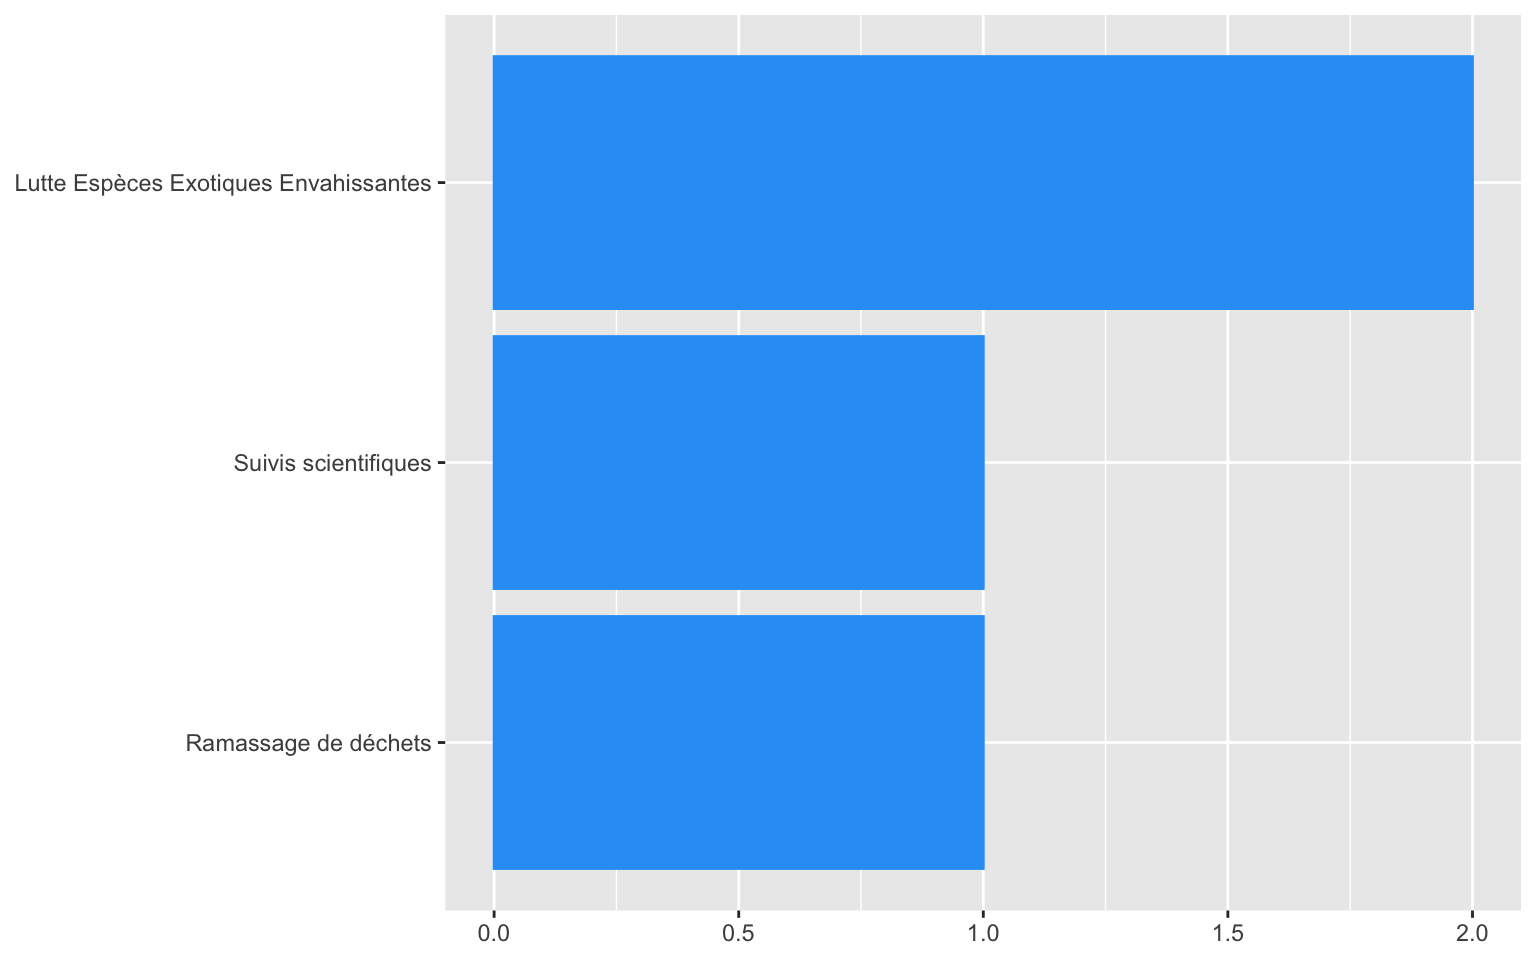
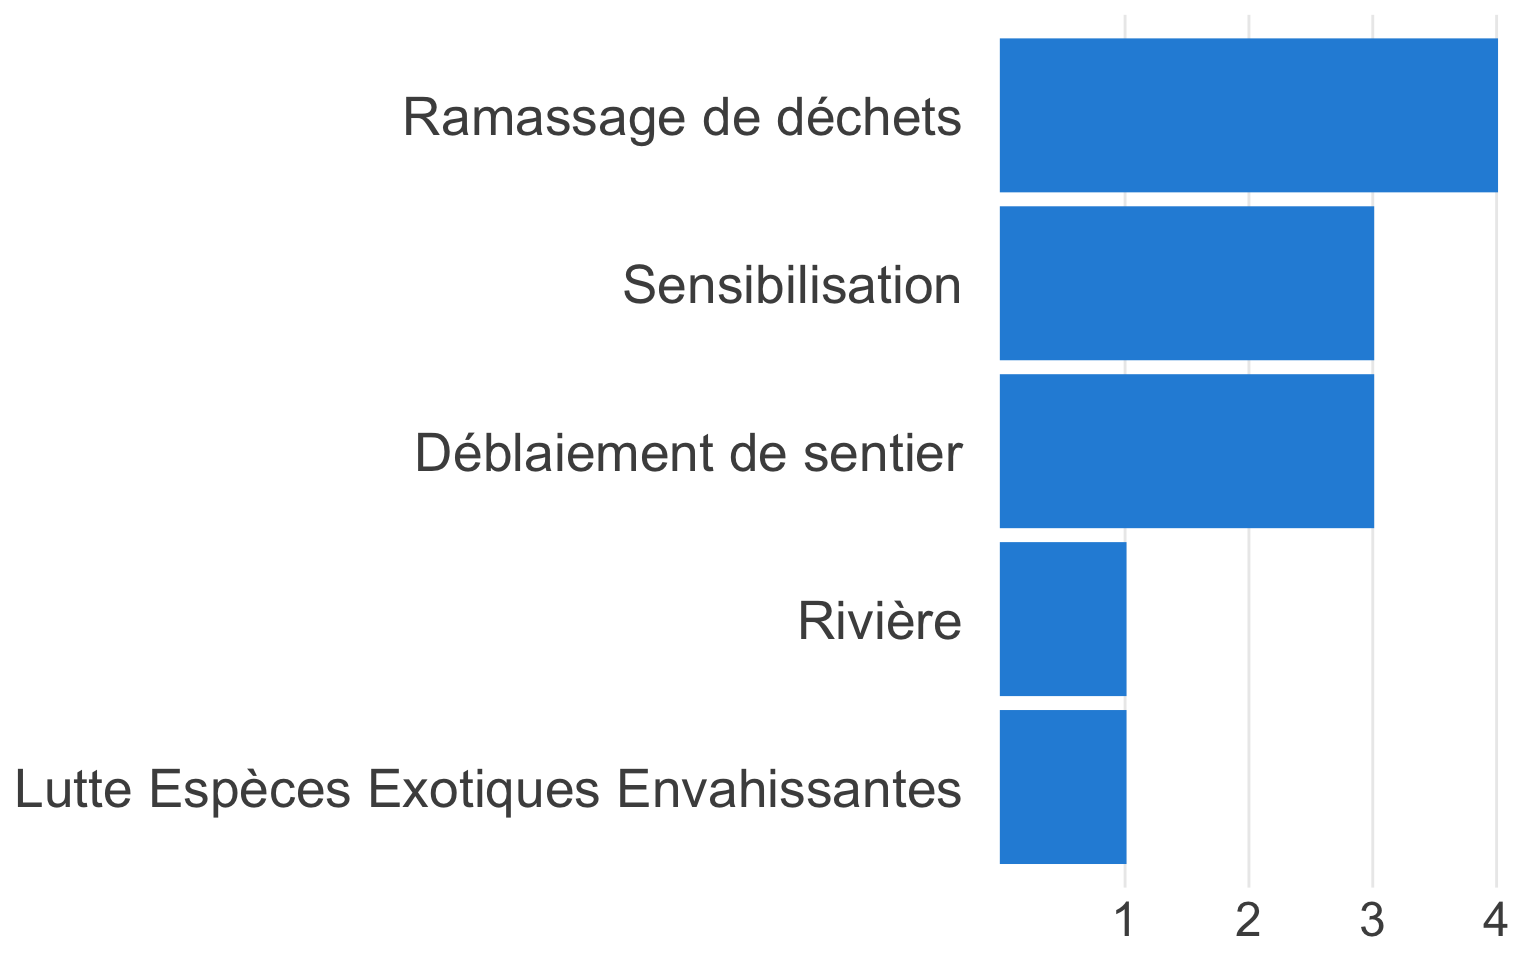
publish real actions

diff --git a/docs/index.html b/docs/index.html
@@ -100,8 +100,8 @@ grid-auto-rows: minmax(0, 1fr);">
 <div class="card cell html-fill-item html-fill-container bslib-card" data-bslib-card-init="" data-require-bs-caller="card()" data-full-screen="false">
 <div class="card-body html-fill-item html-fill-container" style="padding: 0px;">
 <div class="cell-output-display html-fill-item html-fill-container">
-<div class="leaflet html-widget html-fill-item html-fill-container" id="htmlwidget-7b490bf86d921d294e4a" style="width:100%;height:406px;"></div>
-<script type="application/json" data-for="htmlwidget-7b490bf86d921d294e4a">{"x":{"options":{"crs":{"crsClass":"L.CRS.EPSG3857","code":null,"proj4def":null,"projectedBounds":null,"options":{}}},"calls":[{"method":"addSelect","args":["SharedData67cc84e3"]},{"method":"addProviderTiles","args":["CartoDB.Positron",null,"Positron",{"errorTileUrl":"","noWrap":true,"detectRetina":false}]},{"method":"addProviderTiles","args":["Esri.WorldImagery",null,"Esri World Imagery",{"errorTileUrl":"","noWrap":true,"detectRetina":false}]},{"method":"addLayersControl","args":[["Positron","Esri World Imagery"],[],{"collapsed":true,"autoZIndex":true,"position":"topleft"}]},{"method":"addCircleMarkers","args":[[-12.7955,-12.796,-12.785,-12.86963],[45.1786,45.1765,45.13,45.200596],6,null,null,{"interactive":true,"className":"","stroke":false,"color":["#5773CC","#FFB900","#FFB900","#5773CC"],"weight":5,"opacity":0.5,"fill":true,"fillColor":["#5773CC","#FFB900","#FFB900","#5773CC"],"fillOpacity":1},null,null,["<img src='images/EEE.png' style='width: 50px; height: 50px;'><tr><th><b><h3 style='text-align: center;'>Arrachage d’EEE<\/h3><\/b><\/th><p style='text-align: left; font-size: 15px;'> structure organisatrice: <b>GEPOMAY<\/b><\/p><p style='text-align: left; font-size: 15px;'> date: <b>22/02/25<\/b><\/p><a style='text-align: left'; href= 'https://www.jeveuxaider.gouv.fr/missions-benevolat/66226/benevolat-gepomay' target='_blank'> inscription ici <\/a>","<img src='images/loupe.png' style='width: 50px; height: 50px;'><tr><th><b><h3 style='text-align: center;'>Suivi insectes<\/h3><\/b><\/th><p style='text-align: left; font-size: 15px;'> structure organisatrice: <b>ONF<\/b><\/p><p style='text-align: left; font-size: 15px;'> date: <b>15/01/25<\/b><\/p><a style='text-align: left'; href= 'https://www.jeveuxaider.gouv.fr/missions-benevolat/65125/benevolat-drajes-mayotte-1' target='_blank'> inscription ici <\/a>","<img src='images/EEE.png' style='width: 50px; height: 50px;'><tr><th><b><h3 style='text-align: center;'>Lutte contre l’Acacia mangium<\/h3><\/b><\/th><p style='text-align: left; font-size: 15px;'> structure organisatrice: <b>RNN<\/b><\/p><p style='text-align: left; font-size: 15px;'> date: <b>10/01/25<\/b><\/p><a style='text-align: left'; href= '' target='_blank'> inscription ici <\/a>","<img src='images/dechets.jpg' style='width: 50px; height: 50px;'><tr><th><b><h3 style='text-align: center;'>Ramassage des déchets à Hajangua<\/h3><\/b><\/th><p style='text-align: left; font-size: 15px;'> structure organisatrice: <b>YES WE CANNETTE<\/b><\/p><p style='text-align: left; font-size: 15px;'> date: <b>12/02/25<\/b><\/p><a style='text-align: left'; href= '' target='_blank'> inscription ici <\/a>"],null,null,{"interactive":false,"permanent":false,"direction":"auto","opacity":1,"offset":[0,0],"textsize":"10px","textOnly":false,"className":"","sticky":true},{"ctKey":["1","2","3","4"],"ctGroup":"SharedData67cc84e3"}]},{"method":"addLegend","args":[{"colors":["#5773CC","#FFB900"],"labels":["À venir","Terminé"],"na_color":null,"na_label":"Not Available","opacity":1,"position":"topright","type":"factor","title":"statut","extra":null,"layerId":null,"className":"info legend","group":null}]}],"limits":{"lat":[-12.86963,-12.785],"lng":[45.13,45.200596]},"fitBounds":[-12.7,45,-12.95,45.312,[]]},"evals":[],"jsHooks":[]}</script>
+<div class="leaflet html-widget html-fill-item html-fill-container" id="htmlwidget-7c118c630a071ea2e6a7" style="width:100%;height:406px;"></div>
+<script type="application/json" data-for="htmlwidget-7c118c630a071ea2e6a7">{"x":{"options":{"crs":{"crsClass":"L.CRS.EPSG3857","code":null,"proj4def":null,"projectedBounds":null,"options":{}}},"calls":[{"method":"addSelect","args":["SharedDataa84b872d"]},{"method":"addProviderTiles","args":["CartoDB.Positron",null,"Positron",{"errorTileUrl":"","noWrap":true,"detectRetina":false}]},{"method":"addProviderTiles","args":["Esri.WorldImagery",null,"Esri World Imagery",{"errorTileUrl":"","noWrap":true,"detectRetina":false}]},{"method":"addLayersControl","args":[["Positron","Esri World Imagery"],[],{"collapsed":true,"autoZIndex":true,"position":"topleft"}]},{"method":"addCircleMarkers","args":[[-12.899767,-12.89284929864038,-12.893504,-12.775174,-12.922268,-12.911417,-12.844942,-12.958354,-12.774736,-12.91087,-12.849035,-12.907263],[45.096521,45.20322217763992,45.204286,45.105156,45.155158,45.193658,45.11533,45.131359,45.104874,45.192793,45.105779,45.189255],4,null,null,{"interactive":true,"className":"","stroke":false,"color":["#FFB900","#FFB900","#FFB900","#FFB900","#5773CC","#5773CC","#5773CC","#5773CC","#5773CC","#5773CC","#5773CC","#808080"],"weight":5,"opacity":0.5,"fill":true,"fillColor":["#FFB900","#FFB900","#FFB900","#FFB900","#5773CC","#5773CC","#5773CC","#5773CC","#5773CC","#5773CC","#5773CC","#808080"],"fillOpacity":1},null,null,["<img src='images/riviere.jpg' style='width: 50px; height: 50px;'><tr><th><b><h3 style='text-align: center;'>Nettoyage de la rivière Mro Mbole<\/h3><\/b><\/th><p style='text-align: left; font-size: 15px;'> structure organisatrice: <b>APENB<\/b><\/p><p style='text-align: left; font-size: 15px;'> date: <b>18/01/25<\/b><\/p><a style='text-align: left'; href= '' target='_blank'> inscription ici <\/a>","<img src='images/sensibilisation.jpg' style='width: 50px; height: 50px;'><tr><th><b><h3 style='text-align: center;'>Atelier : découverte des tortues marines<\/h3><\/b><\/th><p style='text-align: left; font-size: 15px;'> structure organisatrice: <b>Ecole de la joie et de la Liberté x  Oulanga na nyamba<\/b><\/p><p style='text-align: left; font-size: 15px;'> date: <b>23/01/25<\/b><\/p><a style='text-align: left'; href= '' target='_blank'> inscription ici <\/a>","<img src='images/sensibilisation.jpg' style='width: 50px; height: 50px;'><tr><th><b><h3 style='text-align: center;'>Sortie terrain plage <\/h3><\/b><\/th><p style='text-align: left; font-size: 15px;'> structure organisatrice: <b>Ecole de la joie et de la Liberté x  Oulanga na nyamba<\/b><\/p><p style='text-align: left; font-size: 15px;'> date: <b>24/01/25<\/b><\/p><a style='text-align: left'; href= '' target='_blank'> inscription ici <\/a>","<img src='images/deblaiement.jpg' style='width: 50px; height: 50px;'><tr><th><b><h3 style='text-align: center;'>Nettoyage du sentier cascade <\/h3><\/b><\/th><p style='text-align: left; font-size: 15px;'> structure organisatrice: <b>office de tourisme de la 3CO<\/b><\/p><p style='text-align: left; font-size: 15px;'> date: <b>29/01/25<\/b><\/p><a style='text-align: left'; href= '' target='_blank'> inscription ici <\/a>","<img src='images/EEE.png' style='width: 50px; height: 50px;'><tr><th><b><h3 style='text-align: center;'>Arrachage plantes exotiques envahissantes sur la prairie de Malamani<\/h3><\/b><\/th><p style='text-align: left; font-size: 15px;'> structure organisatrice: <b>GEPOMAY<\/b><\/p><p style='text-align: left; font-size: 15px;'> date: <b>31/01/25<\/b><\/p><a style='text-align: left'; href= 'https://www.jeveuxaider.gouv.fr/missions-benevolat/66226/benevolat-gepomay' target='_blank'> inscription ici <\/a>","<img src='images/sensibilisation.jpg' style='width: 50px; height: 50px;'><tr><th><b><h3 style='text-align: center;'>Sensibilisation mangrove<\/h3><\/b><\/th><p style='text-align: left; font-size: 15px;'> structure organisatrice: <b>976 Sud Prévention<\/b><\/p><p style='text-align: left; font-size: 15px;'> date: <b>01/02/25<\/b><\/p><a style='text-align: left'; href= '' target='_blank'> inscription ici <\/a>","<img src='images/dechets.jpg' style='width: 50px; height: 50px;'><tr><th><b><h3 style='text-align: center;'>Grand nettoyage de la commune du carrefour de Coconi à Mtsagachéni<\/h3><\/b><\/th><p style='text-align: left; font-size: 15px;'> structure organisatrice: <b>Mairie de Sada<\/b><\/p><p style='text-align: left; font-size: 15px;'> date: <b>02/02/25<\/b><\/p><a style='text-align: left'; href= '' target='_blank'> inscription ici <\/a>","<img src='images/deblaiement.jpg' style='width: 50px; height: 50px;'><tr><th><b><h3 style='text-align: center;'>Déblayement des sentiers menant à la RNN FM<\/h3><\/b><\/th><p style='text-align: left; font-size: 15px;'> structure organisatrice: <b>Réserve Naturelle Nationale des Forêts de Mayotte<\/b><\/p><p style='text-align: left; font-size: 15px;'> date: <b>04/02/25<\/b><\/p><a style='text-align: left'; href= '' target='_blank'> inscription ici <\/a>","<img src='images/deblaiement.jpg' style='width: 50px; height: 50px;'><tr><th><b><h3 style='text-align: center;'>nettoyage du sentier de Mtsangamouji<\/h3><\/b><\/th><p style='text-align: left; font-size: 15px;'> structure organisatrice: <b>office de tourisme de la 3CO<\/b><\/p><p style='text-align: left; font-size: 15px;'> date: <b>05/02/25<\/b><\/p><a style='text-align: left'; href= '' target='_blank'> inscription ici <\/a>","<img src='images/dechets.jpg' style='width: 50px; height: 50px;'><tr><th><b><h3 style='text-align: center;'>Nettoyage des villages de la commune de Bandrélé<\/h3><\/b><\/th><p style='text-align: left; font-size: 15px;'> structure organisatrice: <b>DRAJES Mayotte<\/b><\/p><p style='text-align: left; font-size: 15px;'> date: <b>31/01/25<\/b><\/p><a style='text-align: left'; href= 'https://www.jeveuxaider.gouv.fr/missions-benevolat/65125/benevolat-drajes-mayotte-1' target='_blank'> inscription ici <\/a>","<img src='images/dechets.jpg' style='width: 50px; height: 50px;'><tr><th><b><h3 style='text-align: center;'>Nettoyage des écoles de la commune de Sada<\/h3><\/b><\/th><p style='text-align: left; font-size: 15px;'> structure organisatrice: <b>DRAJES Mayotte<\/b><\/p><p style='text-align: left; font-size: 15px;'> date: <b>31/01/25<\/b><\/p><a style='text-align: left'; href= '' target='_blank'> inscription ici <\/a>","<img src='images/dechets.jpg' style='width: 50px; height: 50px;'><tr><th><b><h3 style='text-align: center;'>Nettoyage des chemins pédestres de Bandrélé<\/h3><\/b><\/th><p style='text-align: left; font-size: 15px;'> structure organisatrice: <b>OFFICE MUNICIPAL DE LA JEUNESSE ET SPORT DE BANDRELE<\/b><\/p><p style='text-align: left; font-size: 15px;'> date: <b>NA<\/b><\/p><a style='text-align: left'; href= 'https://www.jeveuxaider.gouv.fr/missions-benevolat/65554/benevolat-office-municipal-de-la-jeunesse-et-sport-de-bandrele' target='_blank'> inscription ici <\/a>"],null,null,{"interactive":false,"permanent":false,"direction":"auto","opacity":1,"offset":[0,0],"textsize":"10px","textOnly":false,"className":"","sticky":true},{"ctKey":["1","2","3","4","5","6","7","8","9","10","11","12"],"ctGroup":"SharedDataa84b872d"}]},{"method":"addLegend","args":[{"colors":["#5773CC","#FFB900"],"labels":["À venir","Terminé"],"na_color":"#808080","na_label":"Non disponible","opacity":1,"position":"topright","type":"factor","title":"statut","extra":null,"layerId":null,"className":"info legend","group":null}]}],"limits":{"lat":[-12.958354,-12.774736],"lng":[45.096521,45.204286]},"fitBounds":[-12.7,45,-12.95,45.312,[]]},"evals":[],"jsHooks":[]}</script>
 </div>
 </div>
 <bslib-tooltip placement="auto" bsoptions="[]" data-require-bs-version="5" data-require-bs-caller="tooltip()">
@@ -125,15 +125,17 @@ grid-auto-rows: minmax(0, 1fr);">
 <select multiple=""></select>
 <script type="application/json" data-for="type">{
   "items": {
-    "value": ["Lutte Espèces Exotiques Envahissantes", "Ramassage de déchets", "Suivis scientifiques"],
-    "label": ["Lutte Espèces Exotiques Envahissantes", "Ramassage de déchets", "Suivis scientifiques"]
+    "value": ["Déblaiement de sentier", "Lutte Espèces Exotiques Envahissantes", "Ramassage de déchets", "Rivière", "Sensibilisation"],
+    "label": ["Déblaiement de sentier", "Lutte Espèces Exotiques Envahissantes", "Ramassage de déchets", "Rivière", "Sensibilisation"]
   },
   "map": {
-    "Lutte Espèces Exotiques Envahissantes": ["1", "3"],
-    "Ramassage de déchets": ["4"],
-    "Suivis scientifiques": ["2"]
+    "Déblaiement de sentier": ["4", "8", "9"],
+    "Lutte Espèces Exotiques Envahissantes": ["5"],
+    "Ramassage de déchets": ["7", "10", "11", "12"],
+    "Rivière": ["1"],
+    "Sensibilisation": ["2", "3", "6"]
   },
-  "group": ["SharedData67cc84e3"]
+  "group": ["SharedDataa84b872d"]
 }</script>
 </div>
 </div>
@@ -149,10 +151,10 @@ grid-auto-rows: minmax(0, 1fr);">
     "label": ["À venir", "Terminé"]
   },
   "map": {
-    "À venir": ["1", "4"],
-    "Terminé": ["2", "3"]
+    "À venir": ["5", "6", "7", "8", "9", "10", "11"],
+    "Terminé": ["1", "2", "3", "4"]
   },
-  "group": ["SharedData67cc84e3"]
+  "group": ["SharedDataa84b872d"]
 }</script>
 </div>
 </div>
@@ -174,7 +176,7 @@ bslib.Sidebar.initCollapsibleAll()
 <div class="html-fill-item html-fill-container bslib-grid" style="display: grid; grid-template-rows: minmax(3em, 20fr) minmax(3em, 80fr); grid-auto-columns: minmax(0, 1fr);">
 <div class="html-fill-item html-fill-container bslib-grid" style="display: grid; grid-template-columns: minmax(3em, 1fr) minmax(3em, 1fr) minmax(3em, 1fr) minmax(3em, 1fr);
 grid-auto-rows: minmax(0, 1fr);">
-<div class="card valuebox html-fill-item html-fill-container bslib-card bslib-value-box bg-vb-warning showcase-left-center" data-bslib-card-init="" data-require-bs-caller="card()">
+<div class="card valuebox html-fill-item html-fill-container bslib-card bslib-value-box bg-warning showcase-left-center" data-bslib-card-init="" data-require-bs-caller="card()">
 <div class="card-body html-fill-item html-fill-container">
 <div class="html-fill-item html-fill-container value-box-grid">
 <div class="value-box-showcase html-fill-item html-fill-container">
@@ -185,12 +187,12 @@ grid-auto-rows: minmax(0, 1fr);">
 <p>Initiatives à venir</p>
 </p>
 <p class="value-box-value">
-2
+8
 </p>
 </div>
 </div>
 </div>
-<script data-bslib-card-init="">bslib.Card.initializeAllCards();</script></div><div class="card valuebox html-fill-item html-fill-container bslib-card bslib-value-box bg-vb-info showcase-left-center" data-bslib-card-init="" data-require-bs-caller="card()">
+<script data-bslib-card-init="">bslib.Card.initializeAllCards();</script></div><div class="card valuebox html-fill-item html-fill-container bslib-card bslib-value-box bg-info showcase-left-center" data-bslib-card-init="" data-require-bs-caller="card()">
 <div class="card-body html-fill-item html-fill-container">
 <div class="html-fill-item html-fill-container value-box-grid">
 <div class="value-box-showcase html-fill-item html-fill-container">
@@ -201,12 +203,12 @@ grid-auto-rows: minmax(0, 1fr);">
 <p>Initiatives terminées</p>
 </p>
 <p class="value-box-value">
-2
+5
 </p>
 </div>
 </div>
 </div>
-<script data-bslib-card-init="">bslib.Card.initializeAllCards();</script></div><div class="card valuebox html-fill-item html-fill-container bslib-card bslib-value-box bg-vb-success showcase-left-center" data-bslib-card-init="" data-require-bs-caller="card()">
+<script data-bslib-card-init="">bslib.Card.initializeAllCards();</script></div><div class="card valuebox html-fill-item html-fill-container bslib-card bslib-value-box bg-success showcase-left-center" data-bslib-card-init="" data-require-bs-caller="card()">
 <div class="card-body html-fill-item html-fill-container">
 <div class="html-fill-item html-fill-container value-box-grid">
 <div class="value-box-showcase html-fill-item html-fill-container">
@@ -222,7 +224,7 @@ Closed
 </div>
 </div>
 </div>
-<script data-bslib-card-init="">bslib.Card.initializeAllCards();</script></div><div class="card valuebox html-fill-item html-fill-container bslib-card bslib-value-box bg-vb-danger showcase-left-center" data-bslib-card-init="" data-require-bs-caller="card()">
+<script data-bslib-card-init="">bslib.Card.initializeAllCards();</script></div><div class="card valuebox html-fill-item html-fill-container bslib-card bslib-value-box bg-danger showcase-left-center" data-bslib-card-init="" data-require-bs-caller="card()">
 <div class="card-body html-fill-item html-fill-container">
 <div class="html-fill-item html-fill-container value-box-grid">
 <div class="value-box-showcase html-fill-item html-fill-container">
@@ -240,9 +242,24 @@ Cancelled
 </div>
 <script data-bslib-card-init="">bslib.Card.initializeAllCards();</script></div>
 </div>
+<div class="html-fill-item html-fill-container bslib-grid" style="display: grid; grid-template-columns: minmax(3em, 50fr) minmax(3em, 50fr);
+grid-auto-rows: minmax(0, 1fr);">
+<div class="html-fill-item html-fill-container bslib-grid" style="display: grid; grid-template-rows: minmax(3em, max-content); grid-auto-columns: minmax(0, 1fr);">
+<div class="card html-fill-item html-fill-container bslib-card" data-fill="false" data-bslib-card-init="" data-require-bs-caller="card()" data-full-screen="false">
+<div class="card-body html-fill-item html-fill-container">
+<p>Ici prochainement une carte</p>
+</div>
+<bslib-tooltip placement="auto" bsoptions="[]" data-require-bs-version="5" data-require-bs-caller="tooltip()">
+    <template>Expand</template>
+    <span class="bslib-full-screen-enter badge rounded-pill">
+        <svg xmlns="http://www.w3.org/2000/svg" viewbox="0 0 24 24" style="height:1em;width:1em;" aria-hidden="true" role="img"><path d="M20 5C20 4.4 19.6 4 19 4H13C12.4 4 12 3.6 12 3C12 2.4 12.4 2 13 2H21C21.6 2 22 2.4 22 3V11C22 11.6 21.6 12 21 12C20.4 12 20 11.6 20 11V5ZM4 19C4 19.6 4.4 20 5 20H11C11.6 20 12 20.4 12 21C12 21.6 11.6 22 11 22H3C2.4 22 2 21.6 2 21V13C2 12.4 2.4 12 3 12C3.6 12 4 12.4 4 13V19Z"></path></svg>
+    </span>
+</bslib-tooltip><script data-bslib-card-init="">bslib.Card.initializeAllCards();</script></div>
+</div><div class="html-fill-item html-fill-container bslib-grid" style="display: grid; grid-template-rows: minmax(3em, 50fr) minmax(3em, 50fr); grid-auto-columns: minmax(0, 1fr);">
 <div class="html-fill-item html-fill-container bslib-grid" style="display: grid; grid-template-columns: minmax(3em, 1fr);
 grid-auto-rows: minmax(0, 1fr);">
-<div class="card cell html-fill-item html-fill-container bslib-card" data-bslib-card-init="" data-require-bs-caller="card()" data-full-screen="false">
+<div class="card cell html-fill-item html-fill-container bslib-card" data-title="Nombre d'initiatives par thématique" data-bslib-card-init="" data-require-bs-caller="card()" data-full-screen="false">
+<div class="card-header"><div class="card-title">Nombre d’initiatives par thématique</div></div>
 <div class="card-body html-fill-item html-fill-container" style="padding: 0px;">
 <div class="cell-output-display html-fill-item html-fill-container">
 <img src="initiatives_environnementales_post_chido_files/figure-html/unnamed-chunk-5-1.png" class="img-fluid quarto-dashboard-img-contain">
@@ -253,8 +270,25 @@ grid-auto-rows: minmax(0, 1fr);">
     <span class="bslib-full-screen-enter badge rounded-pill">
         <svg xmlns="http://www.w3.org/2000/svg" viewbox="0 0 24 24" style="height:1em;width:1em;" aria-hidden="true" role="img"><path d="M20 5C20 4.4 19.6 4 19 4H13C12.4 4 12 3.6 12 3C12 2.4 12.4 2 13 2H21C21.6 2 22 2.4 22 3V11C22 11.6 21.6 12 21 12C20.4 12 20 11.6 20 11V5ZM4 19C4 19.6 4.4 20 5 20H11C11.6 20 12 20.4 12 21C12 21.6 11.6 22 11 22H3C2.4 22 2 21.6 2 21V13C2 12.4 2.4 12 3 12C3.6 12 4 12.4 4 13V19Z"></path></svg>
     </span>
+</bslib-tooltip><script data-bslib-card-init="">bslib.Card.initializeAllCards();</script></div>
+</div>
+<div class="html-fill-item html-fill-container bslib-grid" style="display: grid; grid-template-columns: minmax(3em, 1fr);
+grid-auto-rows: minmax(0, 1fr);">
+<div class="card cell html-fill-item html-fill-container bslib-card" data-bslib-card-init="" data-require-bs-caller="card()" data-full-screen="false">
+<div class="card-body html-fill-item html-fill-container" style="padding: 0px;">
+<div class="cell-output-display html-fill-item html-fill-container">
+<img src="initiatives_environnementales_post_chido_files/figure-html/unnamed-chunk-6-1.png" class="img-fluid quarto-dashboard-img-contain">
+</div>
+</div>
+<bslib-tooltip placement="auto" bsoptions="[]" data-require-bs-version="5" data-require-bs-caller="tooltip()">
+    <template>Expand</template>
+    <span class="bslib-full-screen-enter badge rounded-pill">
+        <svg xmlns="http://www.w3.org/2000/svg" viewbox="0 0 24 24" style="height:1em;width:1em;" aria-hidden="true" role="img"><path d="M20 5C20 4.4 19.6 4 19 4H13C12.4 4 12 3.6 12 3C12 2.4 12.4 2 13 2H21C21.6 2 22 2.4 22 3V11C22 11.6 21.6 12 21 12C20.4 12 20 11.6 20 11V5ZM4 19C4 19.6 4.4 20 5 20H11C11.6 20 12 20.4 12 21C12 21.6 11.6 22 11 22H3C2.4 22 2 21.6 2 21V13C2 12.4 2.4 12 3 12C3.6 12 4 12.4 4 13V19Z"></path></svg>
+    </span>
 </bslib-tooltip><script data-bslib-card-init="">bslib.Card.initializeAllCards();</script></div><div id="3ade8a4a-fb1d-4a6c-8409-ac45482d5fc9" class="hidden html-fill-item html-fill-container">
 
+</div>
+</div>
 </div>
 </div>
 </div>
